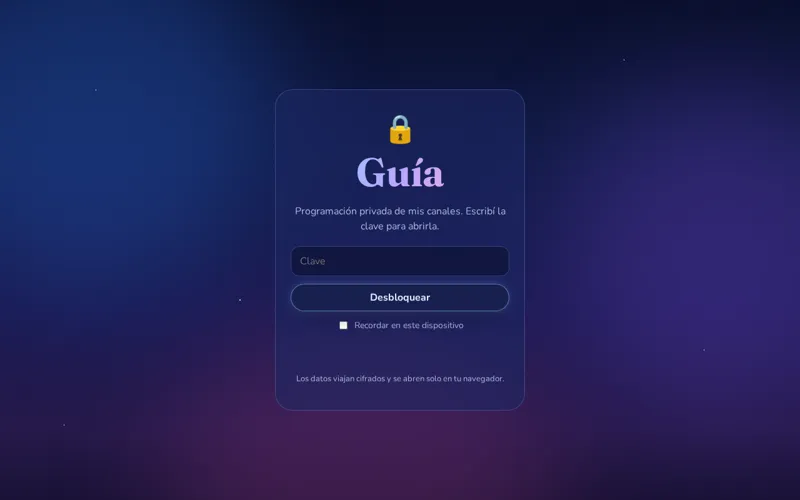
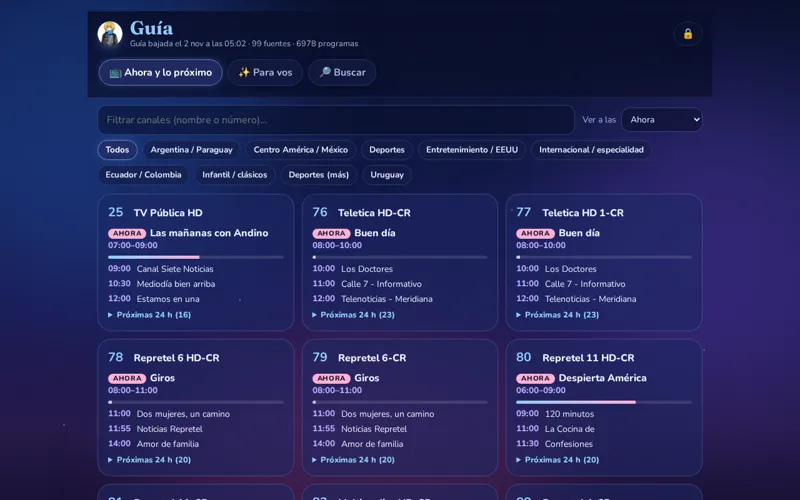
Vitrina: estrellita más brillante y captura de la guía por dentro

diff --git a/styles.css b/styles.css
@@ -99,8 +99,9 @@ a{color:inherit}
 .path-base{stroke:var(--celeste); stroke-width:3; stroke-linecap:round; stroke-dasharray:1 14; opacity:.55}
 .path-trail{stroke:url(#trail-grad); stroke-width:3.5; stroke-linecap:round; opacity:.95}
 /* la estrellita: no rota (queda siempre derechita), con glow suave */
-.traveller{position:absolute; left:0; top:0; z-index:1; width:48px; height:48px; margin:-24px 0 0 -24px;
-  pointer-events:none; filter:drop-shadow(0 0 10px rgba(180,160,245,.6)) drop-shadow(0 6px 12px rgba(120,150,230,.35))}
+.traveller{position:absolute; left:0; top:0; z-index:1; width:58px; height:58px; margin:-29px 0 0 -29px;
+  pointer-events:none;
+  filter:drop-shadow(0 0 7px rgba(255,255,255,.95)) drop-shadow(0 0 18px rgba(170,140,255,.9)) drop-shadow(0 0 34px rgba(255,150,205,.7)) drop-shadow(0 6px 14px rgba(120,150,230,.45))}
 .traveller svg{width:100%; height:100%; display:block; animation:floaty 3.4s ease-in-out infinite}
 @keyframes floaty{0%,100%{transform:translateY(0)}50%{transform:translateY(-3px)}}
 /* estela sutil de destellos alrededor de la estrellita */
@@ -234,6 +235,8 @@ html[data-theme="dark"]{background:#1a1236 linear-gradient(180deg,#0a0f2c 0%,#11
 [data-theme="dark"] .glow-1{background:#1f4aa0}
 [data-theme="dark"] .glow-2{background:#4b3398}
 [data-theme="dark"] .glow-3{background:#7a2f6e; opacity:.35}
+[data-theme="dark"] .traveller{
+  filter:drop-shadow(0 0 8px rgba(255,255,255,1)) drop-shadow(0 0 22px rgba(190,165,255,1)) drop-shadow(0 0 42px rgba(255,160,215,.85)) drop-shadow(0 6px 16px rgba(60,40,120,.55))}
 [data-theme="dark"] .cloud,[data-theme="dark"] .sparkles{display:none}
 [data-theme="dark"] .stars,[data-theme="dark"] .moon,[data-theme="dark"] .shooting{display:block}
 .stars{position:absolute; inset:-10px; background-repeat:repeat; animation:twinkle 4.5s ease-in-out infinite alternate}

diff --git a/index.html b/index.html
@@ -61,9 +61,9 @@
         <stop offset="1" stop-color="#f3a6c4"/>
       </linearGradient>
       <linearGradient id="star-grad" x1="0" y1="0" x2="1" y2="1">
-        <stop offset="0" stop-color="#bfe2ff"/>
-        <stop offset="0.5" stop-color="#d9c7f6"/>
-        <stop offset="1" stop-color="#ffc9dc"/>
+        <stop offset="0" stop-color="#8fcaff"/>
+        <stop offset="0.5" stop-color="#bfa3ff"/>
+        <stop offset="1" stop-color="#ff8fc0"/>
       </linearGradient>
       <linearGradient id="diary-bg" x1="0" y1="0" x2="1" y2="1">
         <stop offset="0" stop-color="#ffe8f0"/>
